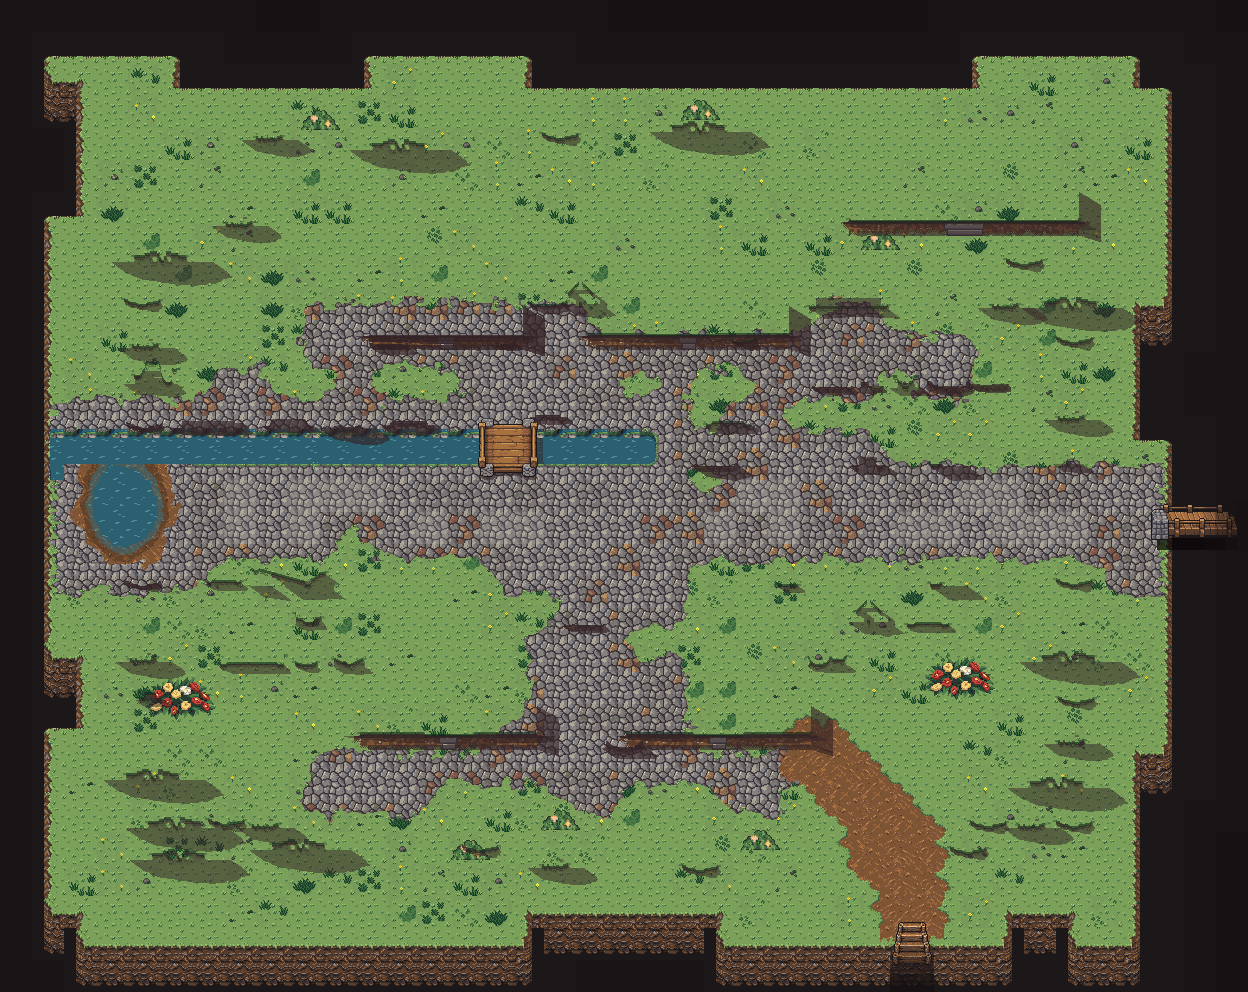
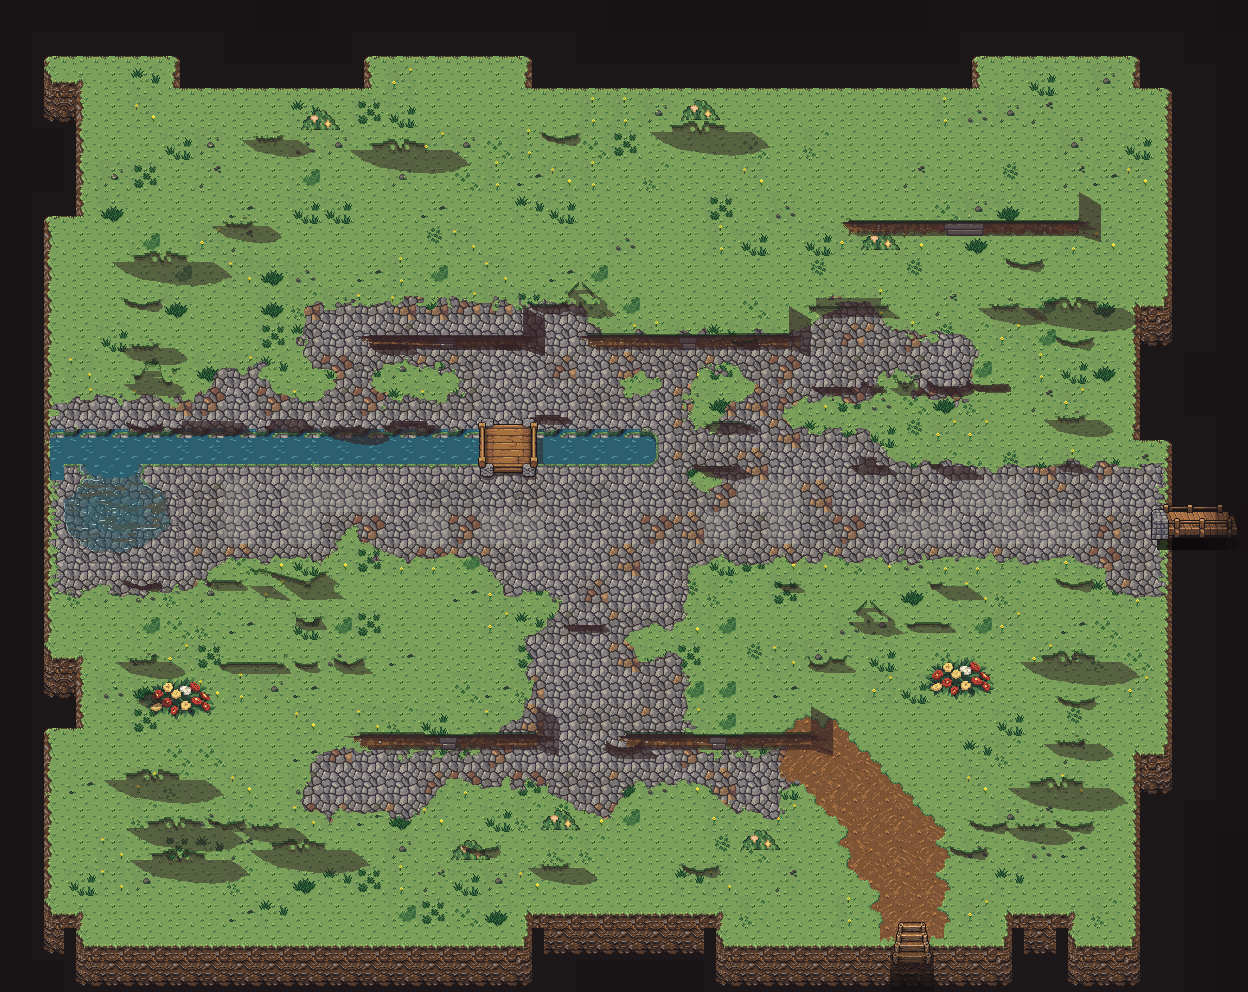
Run the road on under the ford's shallow water
The ford read as a round pond punched into the cobble with a brown ring.
Now the east-west road runs west into a long, shallow sheet spilled over
the canal's kerb: the road's own stones show through, darkened and blued,
with wheel-worn dirt in east-west ruts; the water is deep only at the canal
mouth. Opaque glints at two scales and a broken upper-left catch keep it
wet; the dry side gets a 1-2 px damp band and no ring; the canal's mossy
kerb runs on and turns down round the mouth as an end cap, and the old
channel's kerb outline is gone.

Claude-Session: https://claude.ai/code/session_01H8JDTPYztrZvUL5HBCK6eR

Changed region(s): [[0.0312, 0.4688, 0.1562, 0.5938]]

diff --git a/scripts/art/topdown/pack-ground.ts b/scripts/art/topdown/pack-ground.ts
@@ -331,16 +331,15 @@ export interface Placed {
 }
 
 /**
- * The ford's pool in plate px (ADR 0104, T3: owner, 2026-11-06): a noisy ellipse that covers the
- * game's ford cells (0, 7) and (0, 8) at their centres and stops short of the open cells (1, 7) and
- * (1, 8) at x 168, spilling out of the canal at its top. `box` is the stretch the ford repaints: everything
- * in it but grass is the worn, flooded road.
+ * The ford in plate px (ADR 0104, T3; owner, 2026-11-06): the east-west road runs west into water
+ * spilled from the canal. `road` is the long, shallow sheet over the road (an east-west ellipse
+ * that covers the game's ford cells (0, 7) and (0, 8) at their centres and stops short of where a
+ * figure stands in (1, 7) and (1, 8)); `mouth` is the deeper water where the canal spills over its
+ * kerb. `box` is the stretch the ford repaints.
  */
 export const FORD_POOL = {
-  cx: 124,
-  cy: 506,
-  rx: 38,
-  ry: 48,
+  road: { cx: 114, cy: 512, rx: 54, ry: 38 },
+  mouth: { cx: 112, cy: 466, rx: 30, ry: 16 },
   box: { x0: 64, y0: 464, x1: 192, y1: 584 },
 } as const;
 
@@ -809,50 +808,114 @@ export function bake(objects: readonly TopDownObject[] = BA_DAN_TOPDOWN_LAYOUT.o
       );
   }
 
-  // 3b. the ford: where the canal spills over the road's west end, a worn, flooded road. The
-  // terrain keeps its water vertices (the game's ford cells stay water), but the bake draws them as
-  // a shallow pool on slow noise, its edge mixed with the dirt under it and a wet, darkened rim,
-  // the road worn to dirt round it and cobble further out, never the canal's ruled channel.
+  // 3b. the ford: the east-west road runs west into water spilled over the canal's kerb. The terrain
+  // keeps its water vertices (the game's ford cells stay water); the bake draws the road going on
+  // under a long, shallow sheet, its stones showing through darkened and blued, deep only at the
+  // canal mouth. Opaque glints at two scales and an upper-left catch keep it wet rather than a
+  // shadow (art-lessons, the surfaces pass); the dry side gets a 1-2 px wet band, no ring; the
+  // canal's mossy kerb line turns down round the mouth as an end cap.
   {
     const water = src.wang.canal.get('0000'),
       cobble = src.wang.gc.get('1111'),
       dirtTile = src.wang.dirt.get('0000');
     if (!water || !cobble || !dirtTile) throw new Error('missing ford tiles');
-    const { cx, cy, rx, ry, box } = FORD_POOL;
+    const { road, mouth, box } = FORD_POOL;
+    const bw = box.x1 - box.x0,
+      bh = box.y1 - box.y0;
+    // how far into the water each pixel is: under 1 is water; the edge wanders on slow noise,
+    // drawn out east-west along the road
+    const reach = (x: number, y: number): number => {
+      const w = 1 + vnoise(x * 0.6, y, 61, 9) * 0.1 + vnoise(x, y, 63, 4) * 0.035;
+      const r = Math.hypot((x - road.cx) / road.rx, (y - road.cy) / road.ry);
+      const m = Math.hypot((x - mouth.cx) / mouth.rx, (y - mouth.cy) / mouth.ry);
+      return Math.min(r, m) / w;
+    };
+    const depth = new Float32Array(bw * bh);
+    for (let y = 0; y < bh; y++)
+      for (let x = 0; x < bw; x++) depth[y * bw + x] = reach(box.x0 + x, box.y0 + y);
+    const wet = (x: number, y: number): boolean =>
+      x >= box.x0 && y >= box.y0 && x < box.x1 && y < box.y1
+        ? at(depth, (y - box.y0) * bw + x - box.x0) < 1
+        : y < box.y0 && classes[y * PW + x] === CLASS.W;
+    // the road surface under it: the drawn cobble where there is cobble, the plain tile where the
+    // canal set drew its channel, worn to dirt in east-west ruts
+    const surface = (x: number, y: number, i: number, j: number): number[] => {
+      const t = ((y % T) * T + (x % T)) * 4;
+      const rut =
+        vnoise(x * 0.25, y, 69, 3) > 0.35 && Math.abs(y - road.cy) < 30 && reach(x, y) < 1;
+      if (rut) {
+        const k = dirtIndex(x, y);
+        return [0, 1, 2].map((ch) => at(dirtTile.data, k + ch));
+      }
+      const moss = at(d, j + 1) > at(d, j) + 10 && at(d, j + 1) > at(d, j + 2) + 4;
+      return classes[i] === CLASS.C && !moss
+        ? [0, 1, 2].map((ch) => at(d, j + ch))
+        : [0, 1, 2].map((ch) => at(cobble.data, t + ch));
+    };
+    const kerbFrom = (x: number, y: number): number => ((y * PW + x + 160) * 4) as number;
     for (let y = box.y0; y < box.y1; y++)
       for (let x = box.x0; x < box.x1; x++) {
         const i = y * PW + x,
-          j = i * 4;
-        const wobble = 1 + vnoise(x, y, 61, 14) * 0.08 + vnoise(x, y, 63, 5) * 0.03;
-        const r = Math.hypot((x - cx) / rx, (y - cy) / ry) / wobble;
+          j = i * 4,
+          r = at(depth, (y - box.y0) * bw + x - box.x0);
         const grass = classes[i] === CLASS.G;
-        const worn = r < 1.3 + vnoise(x, y, 65, 9) * 0.18;
-        // beyond the worn ground the road stays as it was, but for the old channel's water and the
-        // mossy kerb line the canal set drew round it
-        const moss = at(d, j + 1) > at(d, j) + 10 && at(d, j + 1) > at(d, j + 2) + 4;
-        if (!worn && r > 1 && classes[i] !== CLASS.W && !(moss && !grass)) continue;
-        if (grass && r > 1) {
-          // grass beside the water is wet and dark
-          if (r < 1.15) for (let ch = 0; ch < 3; ch++) d[j + ch] = at(d, j + ch) * 0.8;
-          continue;
-        }
-        const k = dirtIndex(x, y),
-          t = ((y % T) * T + (x % T)) * 4;
-        const ground = (ch: number): number =>
-          worn ? at(dirtTile.data, k + ch) : at(cobble.data, t + ch);
-        if (r <= 1) {
-          // shallow at the edge: the dirt shows through a band of uneven width
-          const a = r < 0.86 + vnoise(x, y, 67, 6) * 0.06 ? 1 : 0.6;
-          for (let ch = 0; ch < 3; ch++)
-            d[j + ch] = at(water.data, t + ch) * a + ground(ch) * (1 - a);
+        const oldWater = classes[i] === CLASS.W;
+        const t = ((y % T) * T + (x % T)) * 4;
+        if (r < 1) {
+          const ground = surface(x, y, i, j);
+          // deep at the canal mouth, shallow over the road: the stones darkened and blued
+          const deep = y < 478 + vnoise(x, y, 71, 5) * 4 && r < 0.85;
+          const a = deep ? 1 : r < 0.55 ? 0.62 : 0.45;
+          const c = [0, 1, 2].map(
+            (ch) => at(water.data, t + ch) * a + at(ground, ch) * 0.82 * (1 - a),
+          );
+          // the upper-left catch: the first wet pixel below or right of dry ground
+          const catchLight =
+            !deep && (!wet(x - 1, y) || !wet(x, y - 1)) && vnoise(x, y, 79, 3) > -0.1;
+          // glints at two scales: single pixels, and short east-west streaks
+          const glint = !deep && hash2(x, y, 73) > 0.993;
+          const streak =
+            !deep && y % 4 === 0 && vnoise(x * 0.5, y, 75, 3) > 0.55 && hash2(x >> 2, y, 77) > 0.5;
+          const out = catchLight ? [150, 170, 172] : glint || streak ? [176, 196, 196] : c;
+          for (let ch = 0; ch < 3; ch++) d[j + ch] = at(out, ch);
           d[j + 3] = 255;
           classes[i] = CLASS.W;
-        } else {
-          const wet = r < 1.15 ? 0.78 : 1;
-          for (let ch = 0; ch < 3; ch++) d[j + ch] = ground(ch) * wet;
-          d[j + 3] = 255;
-          classes[i] = worn ? CLASS.D : CLASS.C;
+          continue;
         }
+        // the dry side: the canal's kerb moss runs on and turns down round the mouth (its end cap);
+        // a 1-2 px wet band hugs the water; the old channel becomes road
+        const nearWater = [
+          [1, 0],
+          [-1, 0],
+          [0, 1],
+          [0, -1],
+          [2, 0],
+          [-2, 0],
+          [0, 2],
+          [0, -2],
+        ].some(([dx, dy]) => wet(x + (dx ?? 0), y + (dy ?? 0)));
+        const kerbRow = y < box.y0 + 3;
+        if (kerbRow && !grass) {
+          const k = kerbFrom(x, y);
+          for (let ch = 0; ch < 3; ch++) d[j + ch] = at(d, k + ch);
+          classes[i] = CLASS.C;
+          continue;
+        }
+        if (nearWater && y < mouth.cy + mouth.ry + 4 && !grass) {
+          // the cap: moss down the mouth's edge, as the kerb's own line
+          const k = kerbFrom(x, box.y0 + 1);
+          for (let ch = 0; ch < 3; ch++) d[j + ch] = at(d, k + ch);
+          classes[i] = CLASS.C;
+          continue;
+        }
+        // the old channel's mossy kerb line goes too: the road runs on to the water
+        const moss = at(d, j + 1) > at(d, j) + 10 && at(d, j + 1) > at(d, j + 2) + 4;
+        if (!oldWater && !nearWater && !(moss && !grass) && r > 1.25) continue;
+        const ground = grass ? [0, 1, 2].map((ch) => at(d, j + ch)) : surface(x, y, i, j);
+        const damp = nearWater ? 0.72 : 1;
+        for (let ch = 0; ch < 3; ch++) d[j + ch] = at(ground, ch) * damp;
+        d[j + 3] = 255;
+        if (!grass) classes[i] = CLASS.C;
       }
   }
 
